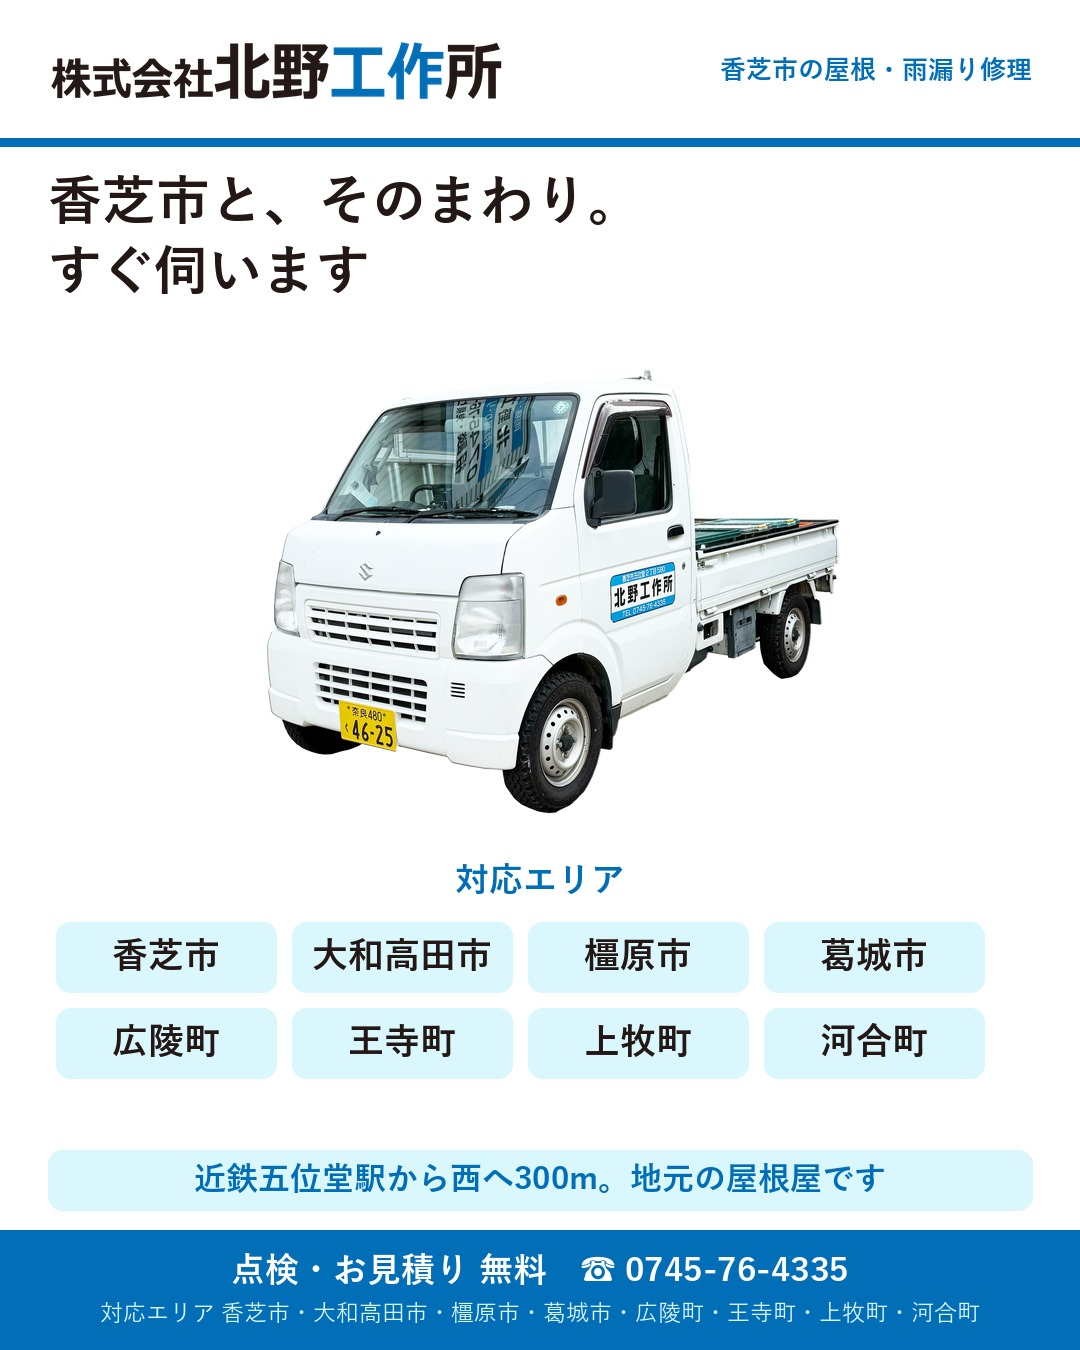
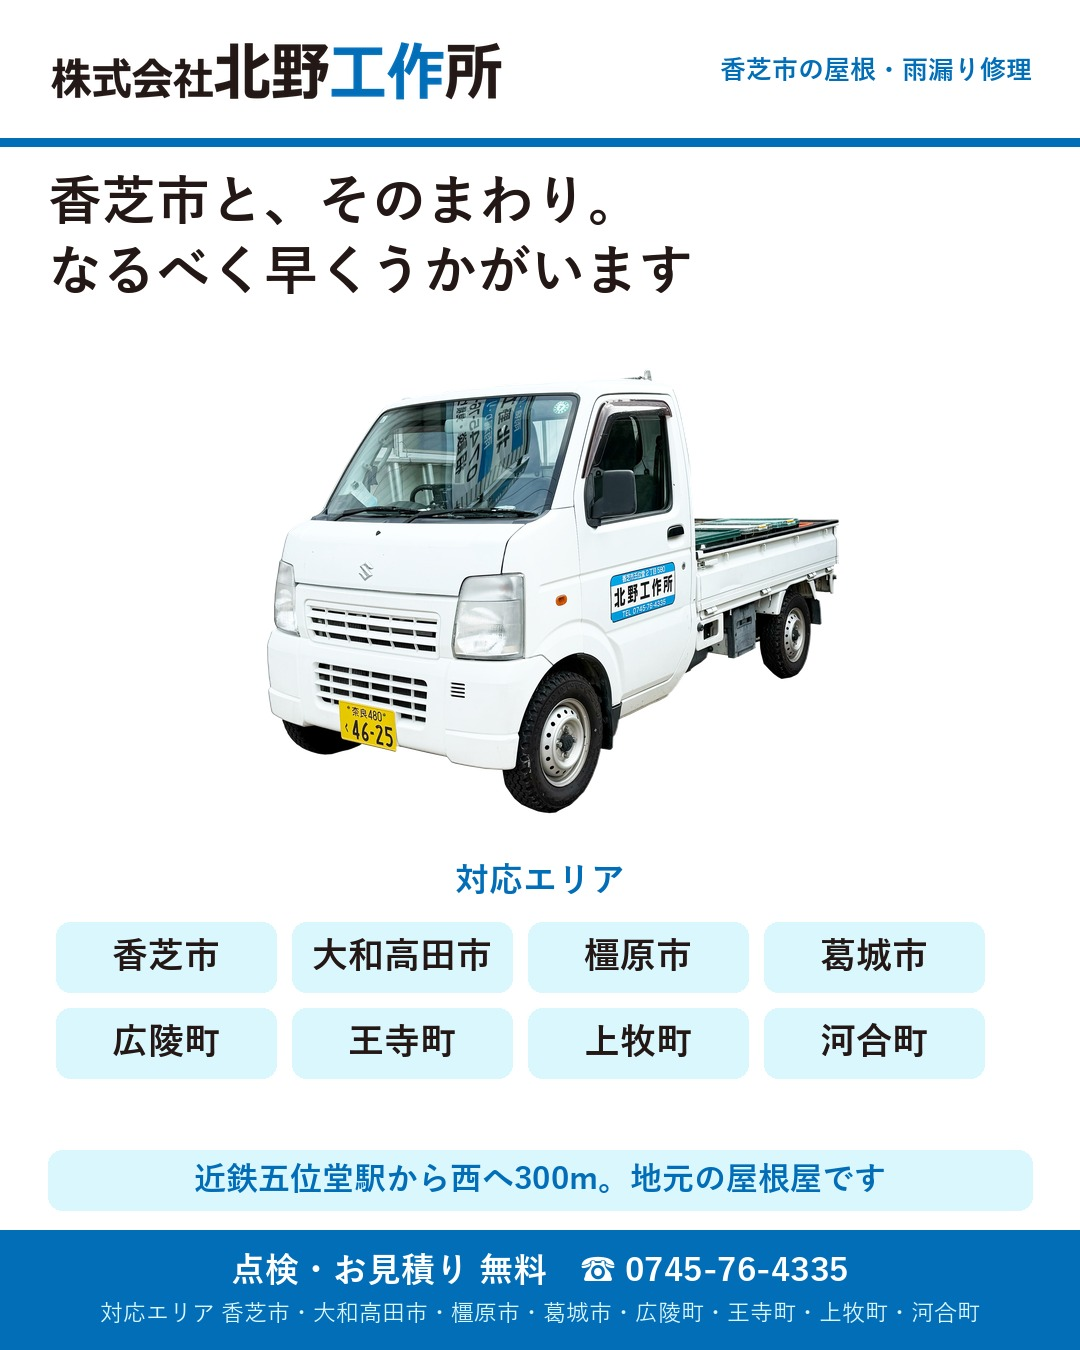
文言: すぐ伺います→なるべく早くうかがいます

Changed region(s): [[0.0306, 0.1556, 0.6417, 0.2178]]

diff --git a/make_posts.py b/make_posts.py
@@ -118,7 +118,7 @@ CTA = """
 株式会社北野工作所(奈良県香芝市五位堂)
 ☎ 0745-76-4335(8:00〜18:00)
 現地調査・お見積りは無料です
-香芝市・大和高田市・橿原市・葛城市・広陵町・王寺町・上牧町・河合町 すぐ伺います
+香芝市・大和高田市・橿原市・葛城市・広陵町・王寺町・上牧町・河合町 なるべく早くうかがいます
 LINE・ホームページはプロフィールのリンクから
 ────────────"""
 # ---------- 1 代表あいさつ ----------
@@ -418,7 +418,7 @@ def post13():
 # ---------- 14 対応エリア ----------
 def post14():
     im, d = base()
-    title_block(d, "香芝市と、そのまわり。\nすぐ伺います", size=54)
+    title_block(d, "香芝市と、そのまわり。\nなるべく早くうかがいます", size=54)
     truck = Image.open("/mnt/c/Users/藤森　保弘/Desktop/北野工作所/インスタ/track.png").convert("RGBA")
     tw = 660; truck = truck.resize((tw, int(truck.height * tw / truck.width)), Image.LANCZOS)
     im.paste(truck, (int((W - tw) / 2), 330), truck)
